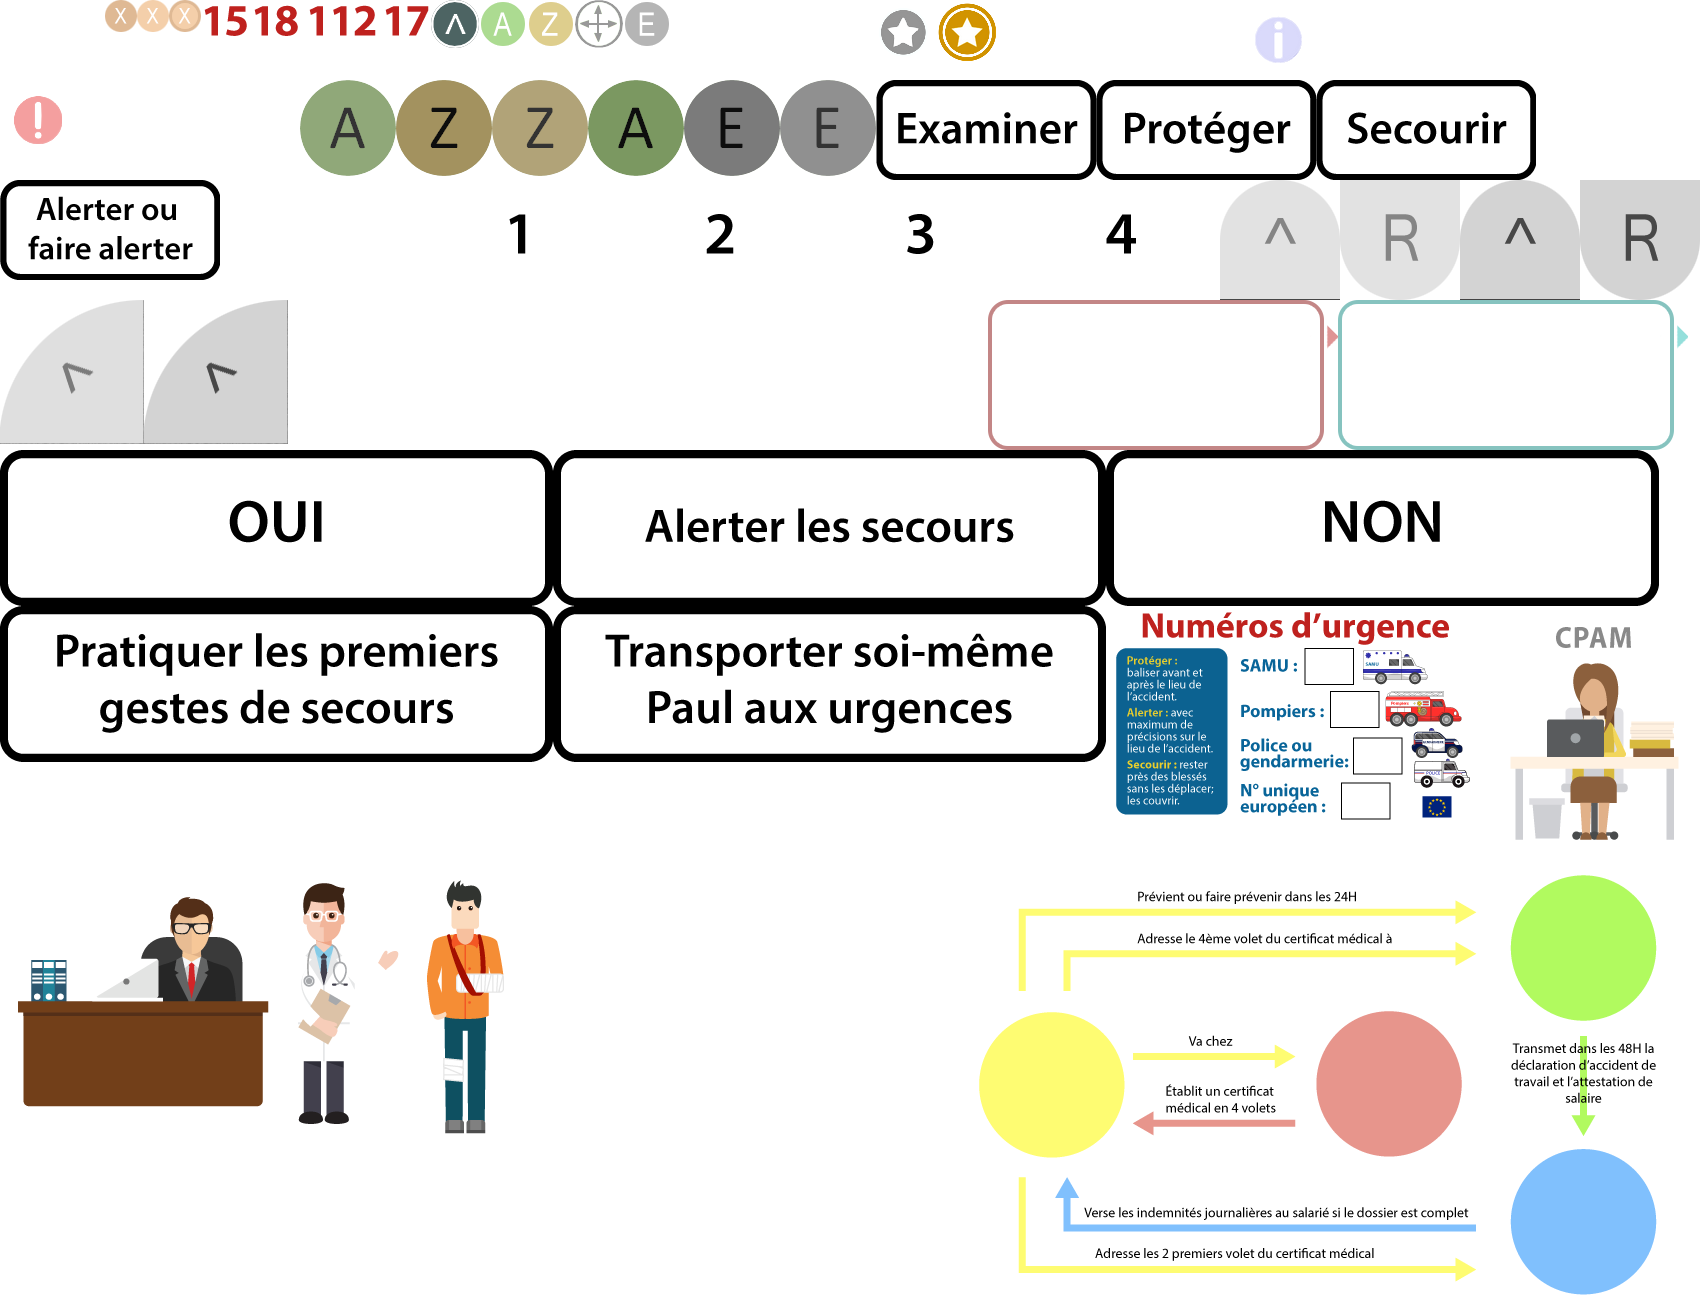
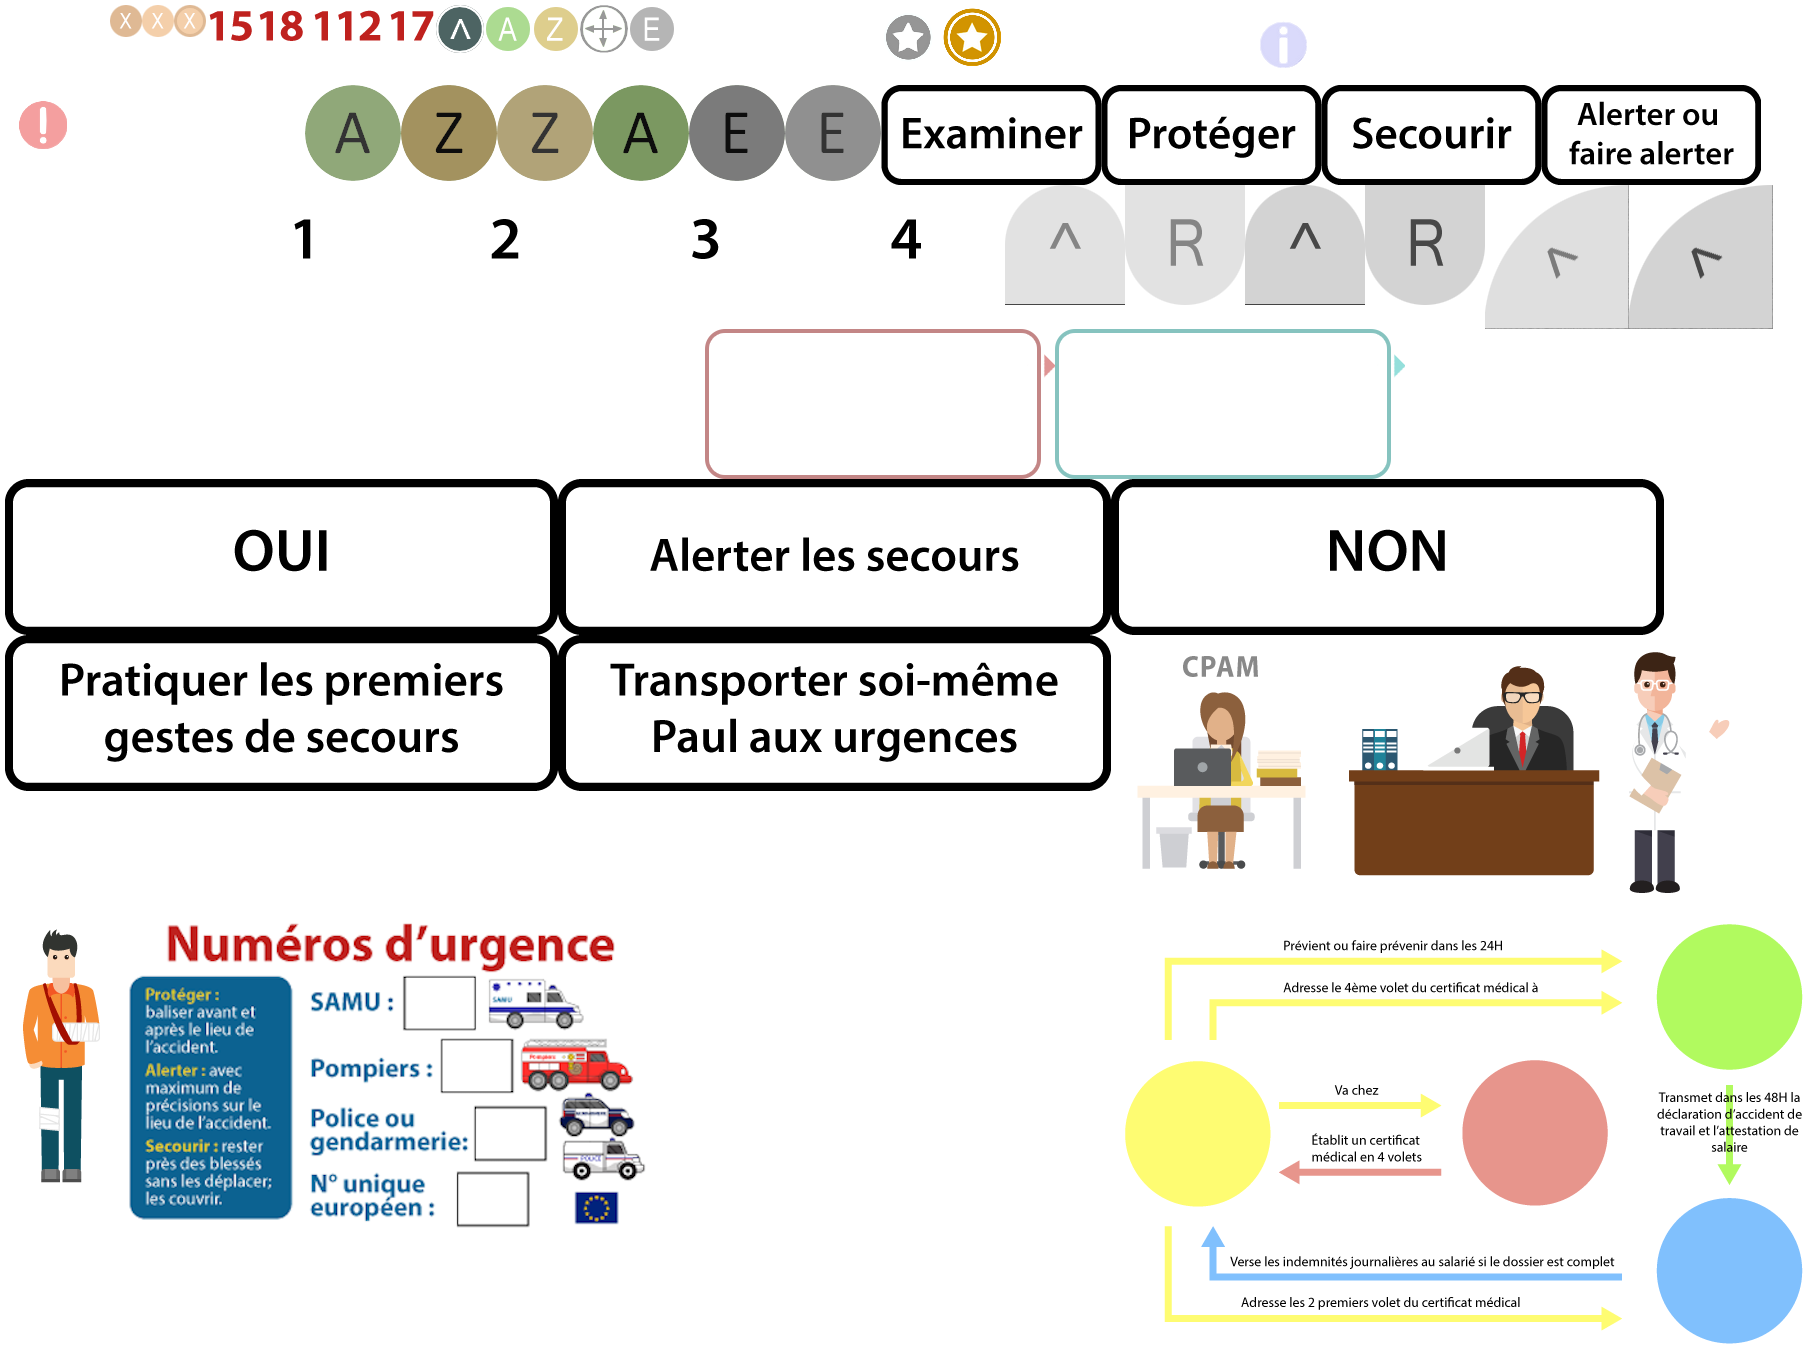
[fix:jeu8] Correction des positions

Changed region(s): [[0.0, 0.0, 1.0, 1.0], [0.0, 0.6754, 0.3732, 0.921], [0.9642, 0.8903, 0.9953, 0.9823]]

diff --git a/src/games/8/components/game/states/Play.js b/src/games/8/components/game/states/Play.js
@@ -90,7 +90,8 @@ class ScreenOne {
 où dix maisons individuelles sont en cours de construction. Il manutentionne des par paings afin 
 d’approvisionner le poste de travail d’un collègue. Soudain, il glisse et se coupe profondément à la cuisse. 
 Que faire ?`;
-        this.title = this.game.add.text(20, 20, text, {font: 'Arial', fontSize: 20, fill: '#000000'});
+        this.title = this.game.add.text(this.game.world.centerX, 25 * this.game.SCALE, text, {font: 'Arial', fontSize: 25 * this.game.SCALE, fill: '#000000', align:'center'});
+        this.title.anchor.setTo(0.5, 0);
 
         this.game.responseGroup = new ResponseFactory(this.game, Config.screenOne);
         this.game.responseGroup.forEach((item) => {
@@ -155,7 +156,8 @@ class ScreenTwo {
 
     start() {
         let text = `As-tu ta formation SST ?`;
-        this.title = this.game.add.text(20, 20, text, {font: 'Arial', fontSize: 20, fill: '#000000'});
+        this.title = this.game.add.text(this.game.world.centerX, 25 * this.game.SCALE, text, {font: 'Arial', fontSize: 25 * this.game.SCALE, fill: '#000000', align:'center'});
+        this.title.anchor.setTo(0.5, 0);
 
         this.game.responseGroup = new ResponseFactory(this.game, Config.screenTwo);
         this.game.responseGroup.forEach((item) => {
@@ -215,9 +217,10 @@ class ScreenThree {
         this.gameProcess.quests.add(new CareStepsQuest(this.gameProcess.game));
 
         let text = `Remet les quatre étapes, par ordre chronologique, de l’intervention du SST.`;
-        this.title = this.game.add.text(20, 20, text, {font: 'Arial', fontSize: 20, fill: '#000000'});
+        this.title = this.game.add.text(this.game.world.centerX, 25 * this.game.SCALE, text, {font: 'Arial', fontSize: 25 * this.game.SCALE, fill: '#000000', align:'center'});
+        this.title.anchor.setTo(0.5, 0);
 
-        this.background = new Background(this.game, this.game.world.centerX, 300, "steps/bg");
+        this.background = new Background(this.game, this.game.world.centerX, 300 * this.game.SCALE, "steps/bg");
         this.game.layer.zDepth0.addChild(this.background.sprite);
         
         this.game.responseGroup = new ResponseFactory(this.game, Config.screenThree);
@@ -291,7 +294,8 @@ class ScreenThree {
     addShapes(element) {
         let x = element.x, 
             y = element.y,
-            y2 = y + 15,
+            // y2 = y + 15,
+            y2 = y,
 
             width = element.sprite.width,
             number = this.game.responseGroup.number,
@@ -376,9 +380,10 @@ class ScreenFour {
 
         let text = `Paul a été pris en charge par les secours. Il te demande conseil sur la procédure en cas d’accident du travail, 
 car c’est la premiè̀re fois pour lui. Fais glisser sur les schémas les différents acteurs :`;
-        this.title = this.game.add.text(20, 20, text, {font: 'Arial', fontSize: 20, fill: '#000000'});
+        this.title = this.game.add.text(this.game.world.centerX, 25 * this.game.SCALE, text, {font: 'Arial', fontSize: 25 * this.game.SCALE, fill: '#000000', align:'center'});
+        this.title.anchor.setTo(0.5, 0);
 
-        this.background = new Background(this.game, this.game.world.centerX, 300, "process/bg");
+        this.background = new Background(this.game, this.game.world.centerX, 350 * this.game.SCALE, "process/bg");
         this.game.layer.zDepth0.addChild(this.background.sprite);
 
         this.game.responseGroup = new ResponseFactory(this.game, Config.screenFour);
@@ -456,20 +461,20 @@ car c’est la premiè̀re fois pour lui. Fais glisser sur les schémas les dif
         let x = element.x, 
             y = element.y,
 
-            x1 = x - 270,
-            y1 = y - 0,
+            x1 = x - 270 * this.game.SCALE,
+            y1 = y - 0 * this.game.SCALE,
 
-            x2 = x + 70,
-            y2 = y - 0,
+            x2 = x + 70 * this.game.SCALE,
+            y2 = y - 0 * this.game.SCALE,
 
-            x3 = x + 265,
-            y3 = y - 135,
+            x3 = x + 265 * this.game.SCALE,
+            y3 = y - 135 * this.game.SCALE,
 
-            x4 = x + 265,
-            y4 = y + 135,
+            x4 = x + 265 * this.game.SCALE,
+            y4 = y + 135 * this.game.SCALE,
 
             fill = false,
-            radius = 80;
+            radius = 80 * this.game.SCALE;
 
         // CPAM
         this.shapes[0] = this.game.add.graphics(x1, y1);
@@ -545,9 +550,10 @@ class ScreenFive {
         this.gameProcess.quests.add(new NumbersQuest(this.gameProcess.game));
 
         let text = `Fais glisser le numéro corespondant aux urgences associées:`;
-        this.title = this.game.add.text(20, 20, text, {font: 'Arial', fontSize: 20, fill: '#000000'});
+        this.title = this.game.add.text(this.game.world.centerX, 25 * this.game.SCALE, text, {font: 'Arial', fontSize: 25 * this.game.SCALE, fill: '#000000', align:'center'});
+        this.title.anchor.setTo(0.5, 0);
 
-        this.background = new Background(this.game, this.game.world.centerX, 300, "numbers/bg");
+        this.background = new Background(this.game, this.game.world.centerX, 300 * this.game.SCALE, "numbers/bg");
         this.background.sprite.scale.set(1.5);
         this.game.layer.zDepth0.addChild(this.background.sprite);
         this.game.responseGroup = new ResponseFactory(this.game, Config.screenFive);
@@ -643,21 +649,21 @@ class ScreenFive {
         let x = element.x, 
             y = element.y,
 
-            x1 = x + 50,
-            y1 = y - 80,
+            x1 = x + 50 * this.game.SCALE,
+            y1 = y - 73 * this.game.SCALE,
 
-            x2 = x + 90,
-            y2 = y - 20,
+            x2 = x + 83 * this.game.SCALE,
+            y2 = y - 13 * this.game.SCALE,
 
-            x3 = x + 120,
-            y3 = y + 50,
+            x3 = x + 118 * this.game.SCALE,
+            y3 = y + 54 * this.game.SCALE,
 
-            x4 = x + 110,
-            y4 = y + 130,
+            x4 = x + 97 * this.game.SCALE,
+            y4 = y + 115 * this.game.SCALE,
 
             // Pour afficher les zones de drag n drop
             fill = false,
-            radius = 20;
+            radius = 20 * this.game.SCALE;
 
         // Samu
         this.shapes[0] = this.game.add.graphics(x1, y1);

diff --git a/src/games/8/components/game/objects/Background/BackgroundSprite.js b/src/games/8/components/game/objects/Background/BackgroundSprite.js
@@ -7,7 +7,12 @@ export default class ProcedureSprite extends BasicGameSprite {
     constructor(game, x, y, key, itemObj) {
         super(game, x, y, `jeu8/${key}`, itemObj);
         this.anchor.setTo(0.5, 0.5);
-        this.scale.set(1);
+        this.scale.set(this.game.SCALE);
+        this.inputEnabled = true;
+        this.events.onInputDown.add(function(){
+            console.log((this.centerX - this.game.input.mousePointer.x) / this.game.SCALE);
+            console.log((this.centerY - this.game.input.mousePointer.y) / this.game.SCALE);
+        }, this);
     }
 
 };

diff --git a/src/games/8/components/game/objects/Background/Background.js b/src/games/8/components/game/objects/Background/Background.js
@@ -15,7 +15,7 @@ export default class Background extends BasicGameObject {
         this.addSprite(new BackgroundSprite(this.game, this.x, this.y, this.key, this));
     }
 
-    preUpdate() {
+    /*preUpdate() {
         //
     }
 
@@ -33,5 +33,5 @@ export default class Background extends BasicGameObject {
 
     _renderCanvas() {
         //
-    }
+    }*/
 }

diff --git a/src/games/8/components/game/objects/Response/ResponseSprite.js b/src/games/8/components/game/objects/Response/ResponseSprite.js
@@ -7,7 +7,7 @@ export default class ResponseSprite extends BasicGameSprite {
     constructor(game, x, y, link, buttonObj) {
         super(game, x, y, `jeu8/${link}`, buttonObj);
         this.anchor.setTo(0.5);
-        this.scale.set(0.5);
+        this.scale.set(0.7 * this.game.SCALE);
         this.originalPosition = this.position.clone();
     }
 

diff --git a/src/games/8/components/game/objects/Numbers/Numbers.js b/src/games/8/components/game/objects/Numbers/Numbers.js
@@ -14,7 +14,7 @@ export default class Numbers extends BasicGameObject {
         this.addSprite(new NumbersSprite(this.game, this.x, this.y, this));
     }
 
-    preUpdate() {
+    /*preUpdate() {
         //
     }
 
@@ -32,5 +32,5 @@ export default class Numbers extends BasicGameObject {
 
     _renderCanvas() {
         //
-    }
+    }*/
 }

diff --git a/src/games/8/components/game/objects/Response/ResponseFactory.js b/src/games/8/components/game/objects/Response/ResponseFactory.js
@@ -21,7 +21,7 @@ export default class ResponseFactory extends GameFactory {
         this.number = itemsNumber;
 
         let xValue = (width / itemsNumber)/2;
-        let y = 400;
+        let y = this.game.world.centerY + 150 * this.game.SCALE;
 
         for (let i = 0; i < itemsNumber; i++) {
             let x = i * (2 * xValue) + xValue;
